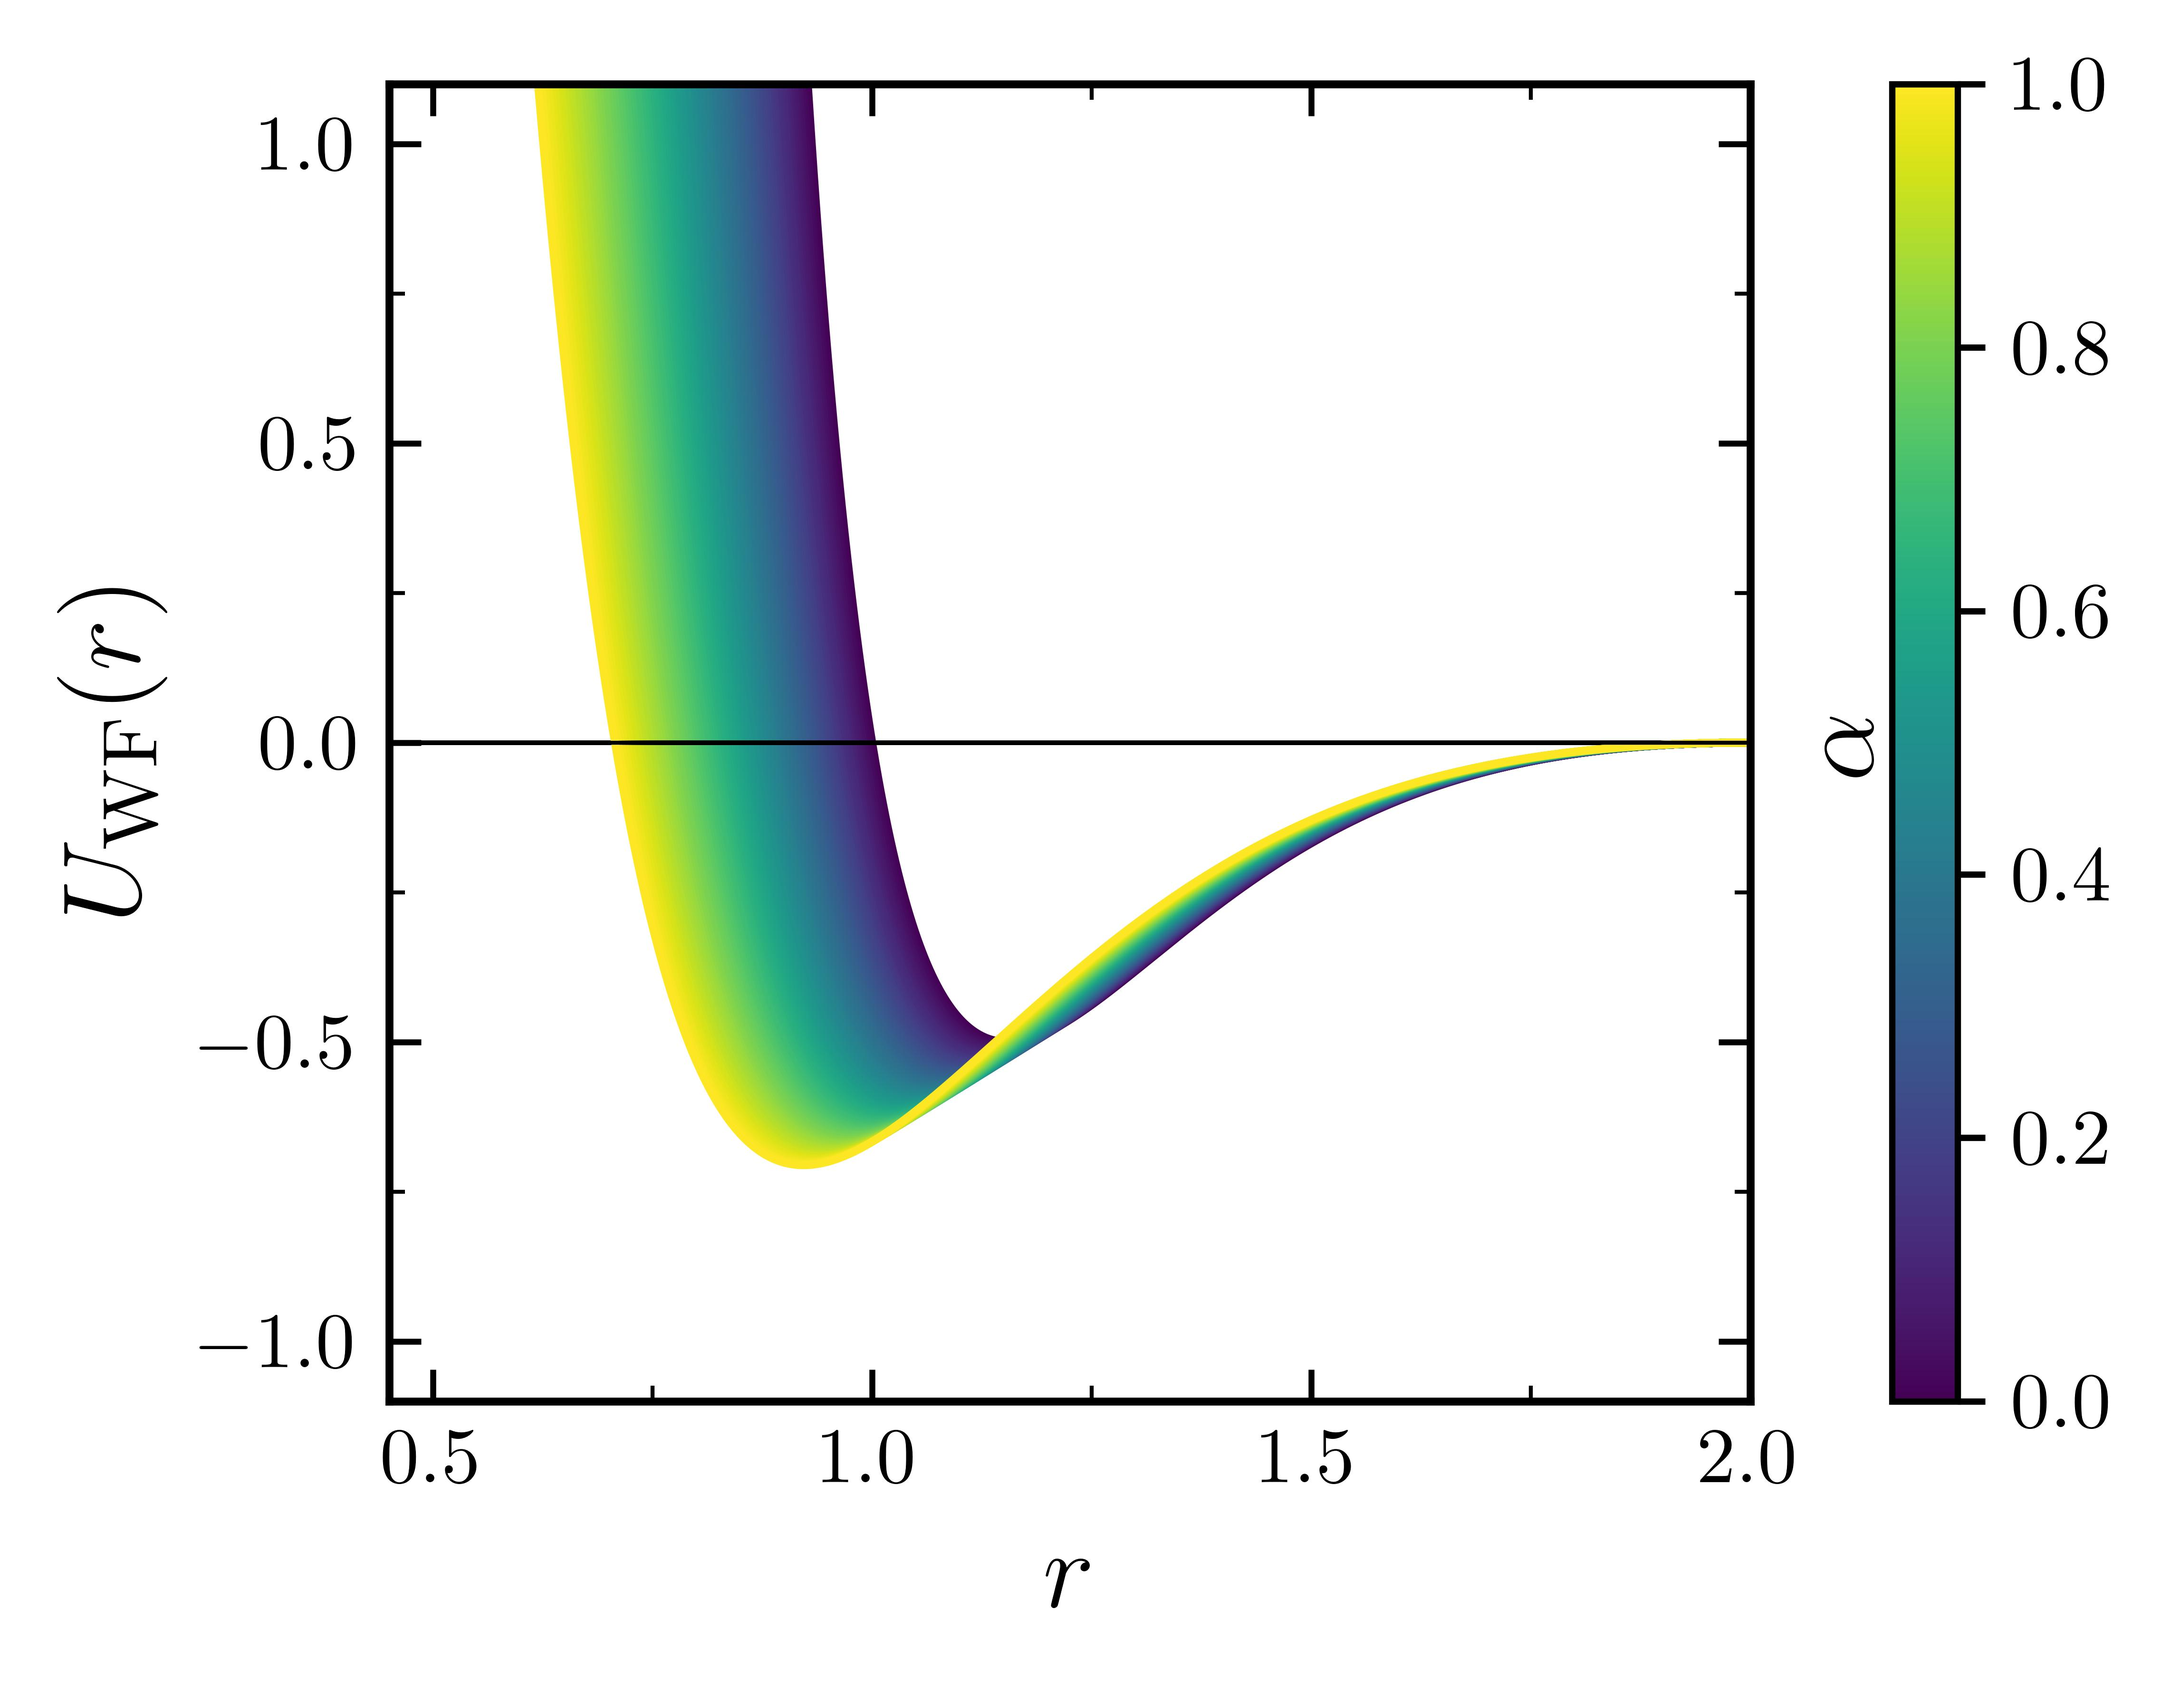
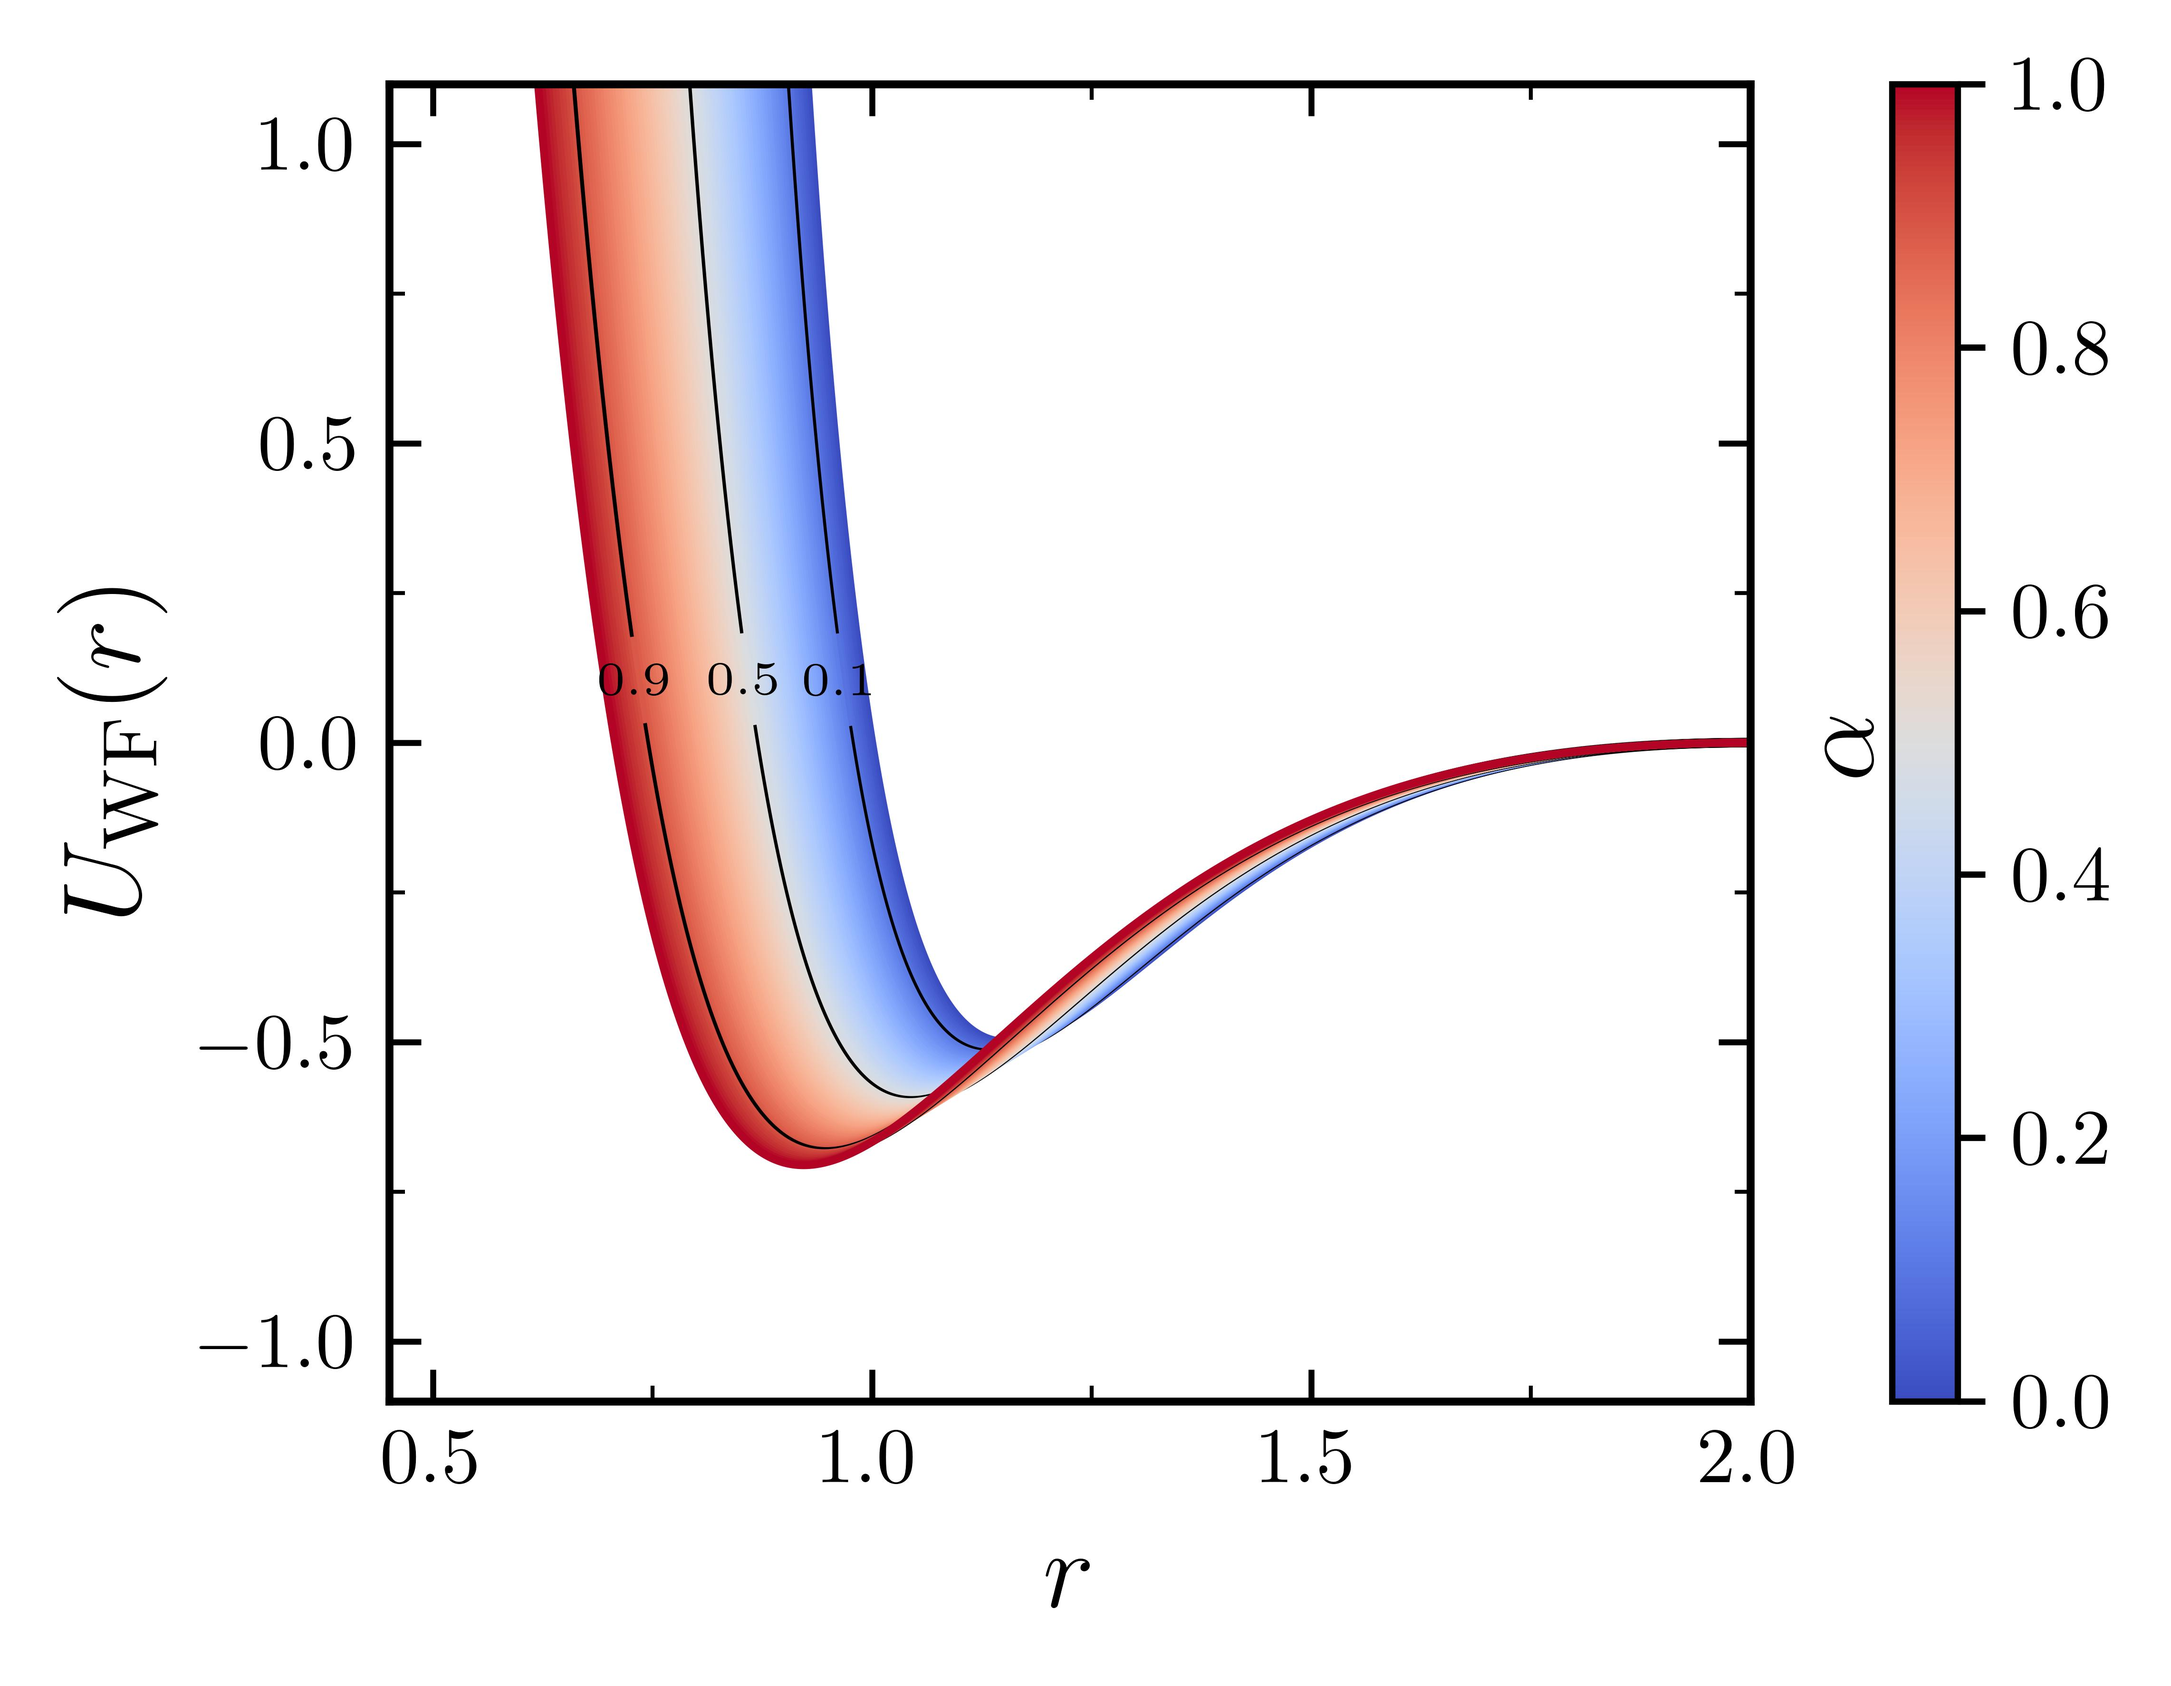
WF potential - plots-updated

Changed region(s): [[0.2487, 0.031, 0.8082, 0.7131], [0.8704, 0.031, 0.9015, 0.8371]]

diff --git a/WF/plot_WF_lambda.py b/WF/plot_WF_lambda.py
@@ -53,9 +53,11 @@ epsilon = 1.0
 sigma = 1.0
 rc = 2
 alpha = 1
-Lambda = np.arange(0,1.001,0.01)
+Lambda = np.arange(0,1.001,0.001)
+highlight_lambda = [0.1, 0.3, 0.5, 0.7, 0.9]
 
-cmap = cm.get_cmap("viridis")
+# cmap = cm.get_cmap("viridis")
+cmap = cm.get_cmap("coolwarm")
 norm = mcolors.Normalize(vmin=min(Lambda), vmax=max(Lambda))  #
 
 with plt.style.context([ 'ieee']):
@@ -76,15 +78,61 @@ with plt.style.context([ 'ieee']):
             print(f"Large values detected for lambda={lambda_val}")
         color = cmap(norm(lambda_val))
         
-        plt.plot(r, V_WF, label=rf"{i}", color= color, linestyle='solid', linewidth=linewidth)
-        plt.axhline(0, color='black',linewidth=0.5)
-        # plt.axvline(2.0 * sigma, color='red', linestyle='--', label="Rcut")
-        
-        if i % 20 == 0:  # Adjust as per the Lambda resolution
-            midpoint_idx = len(r) // (2)
-            ax.plot(r, V_WF, color='k',  linestyle='solid', linewidth=1)
-            ax.text(r[midpoint_idx], V_WF[midpoint_idx] + 0.05, f"{lambda_val:.1f}", fontsize=legend_fontsize, color=color, ha='right',
-                bbox=dict(facecolor='white', edgecolor='none', pad=0.5, alpha=0.0))
+        if any(np.isclose(lambda_val, hl, atol=1e-4) for hl in highlight_lambda):
+            # midpoint_idx = len(r) // 2  # Index at the middle
+            
+            zero_crossings = np.where(np.abs(V_WF) < 1e-1)[0]
+            # print(zero_crossings[0])
+            
+            if lambda_val == 0.1: 
+                tab_value = 150
+                tab2 = 400
+            elif lambda_val == 0.3:
+                tab_value = 30
+                tab2 = 325
+            elif lambda_val == 0.5:
+                tab_value = 20
+                tab2 = 250
+            elif lambda_val == 0.7:
+                tab_value = 18
+                tab2 = 200
+            else:
+                tab_value = 10
+                tab2 = 200
+
+            point_1 = zero_crossings[0] - int(tab_value)
+            point_3 = zero_crossings[0] 
+            point_2 = zero_crossings[0] + int(tab_value)
+            
+            midpoint_1 = 3000
+            midpoint_3 = midpoint_1 + int(tab2/2)
+            print(midpoint_3)
+            midpoint_2 = midpoint_1 + int(tab2)
+            
+            ax.plot(r[:point_1], V_WF[:point_1], color='k', linestyle='solid', linewidth=1.5)
+            ax.plot(r[point_2:midpoint_1], V_WF[point_2:midpoint_1], color='k', linestyle='solid', linewidth=1.5)
+            # ax.plot(r[:midpoint_1], V_WF[:midpoint_1], color='k', linestyle='solid', linewidth=1.5)
+            ax.plot(r[midpoint_2:], V_WF[midpoint_2:], color='k', linestyle='solid', linewidth=1.5)
+            
+            # Add text at the break point
+            ax.text(
+                r[midpoint_3], V_WF[midpoint_3], f"{lambda_val:.1f}",
+                fontsize=legend_fontsize-3,
+                color='black',
+                ha='center',  # Center the text horizontally
+                va='center',  # Center the text vertically
+                bbox=dict(facecolor='white', edgecolor='none', pad=0.5, alpha=0.0)
+            )
+            ax.text(
+                r[point_3], V_WF[point_3], f"{lambda_val:.1f}",
+                fontsize=legend_fontsize-3,
+                color='black',
+                ha='center',  # Center the text horizontally
+                va='center',  # Center the text vertically
+                bbox=dict(facecolor='white', edgecolor='none', pad=0.5, alpha=0.0)
+            )
+        else:
+            ax.plot(r, V_WF, color=color, linestyle='solid', linewidth=linewidth)
         
     plt.xlabel("$r$", fontsize=label_fontsize)
     plt.ylabel("$U_{\mathrm{WF}}(r)$", fontsize=label_fontsize)

diff --git a/WF/plot_WF_alpha.py b/WF/plot_WF_alpha.py
@@ -54,8 +54,10 @@ sigma = 1.0
 rc = 2
 alpha = np.arange(0,1.01,0.01)
 Lambda = 0.5
+highlight_alpha = [0.1, 0.5, 0.9]
 
-cmap = cm.get_cmap("viridis")
+# cmap = cm.get_cmap("viridis")
+cmap = cm.get_cmap("coolwarm")
 norm = mcolors.Normalize(vmin=min(alpha), vmax=max(alpha))  #
 
 with plt.style.context([ 'ieee']):
@@ -74,9 +76,40 @@ with plt.style.context([ 'ieee']):
         V_WF = wf_potential(r, rc, alpha_val, Lambda)
         color = cmap(norm(alpha_val))
         
-        plt.plot(r, V_WF, label=rf"{i}", color= color, linestyle='solid', linewidth=linewidth)
-        plt.axhline(0, color='black',linewidth=0.5)
+        # plt.plot(r, V_WF, label=rf"{i}", color= color, linestyle='solid', linewidth=linewidth)
+        # plt.axhline(0, color='black',linewidth=0.5)
         # plt.axvline(2.0 * sigma, color='red', linestyle='--', label="Rcut")
+        
+        if any(np.isclose(alpha_val, ha, atol=1e-3) for ha in highlight_alpha):
+            # midpoint_idx = len(r) // 2  # Index at the middle
+            
+            zero_crossings = np.where(np.abs(V_WF) < 1e-1)[0]
+            # print(zero_crossings[0])
+            
+            midpoint_1 = zero_crossings[0] - 20
+            # print(midpoint_1)
+            midpoint_3 = zero_crossings[0] 
+            midpoint_2 = zero_crossings[0] + 20
+            
+            # midpoint_1 = 3000
+            # midpoint_3 = 3150
+            # midpoint_2 = 3300
+            
+            ax.plot(r[:midpoint_1], V_WF[:midpoint_1], color='k', linestyle='solid', linewidth=1.2)
+            ax.plot(r[midpoint_2:], V_WF[midpoint_2:], color='k', linestyle='solid', linewidth=1.2)
+            
+            # Add text at the break point
+            ax.text(
+                r[midpoint_3], V_WF[midpoint_3], f"{alpha_val:.1f}",
+                fontsize=legend_fontsize-2,
+                fontweight='bold',
+                color='black',
+                ha='center',  # Center the text horizontally
+                va='center',  # Center the text vertically
+                bbox=dict(facecolor='white', edgecolor='none', pad=0.5, alpha=0.0)
+            )
+        else:
+            ax.plot(r, V_WF, color=color, linestyle='solid', linewidth=linewidth)
         
     plt.xlabel("$r$", fontsize=label_fontsize)
     plt.ylabel("$U_{\mathrm{WF}}(r)$", fontsize=label_fontsize)
